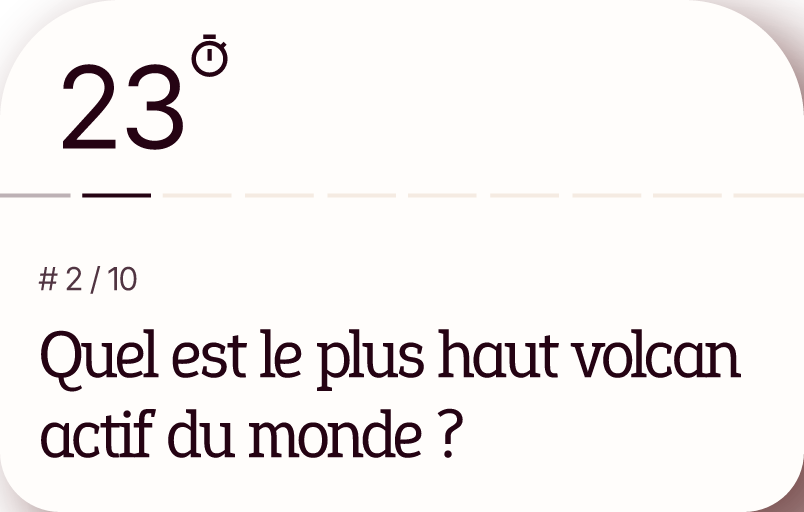
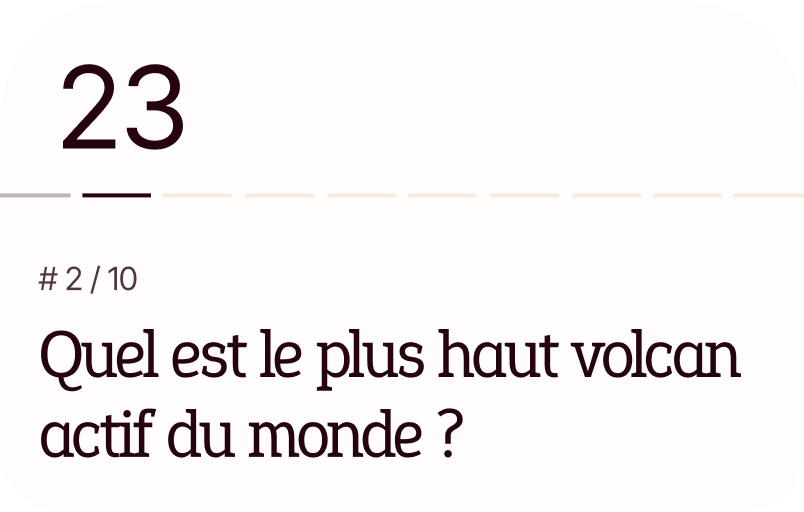
feat(mobile): onboarding page 2 shows the competition hero — the softened summit, the crown and the leader's row card — on the frame both heroes now share

diff --git a/apps/mobile/src/features/onboarding/components/practice-hero.tsx b/apps/mobile/src/features/onboarding/components/practice-hero.tsx
@@ -3,16 +3,16 @@ import { StyleSheet, View } from "react-native";
 import FastSquircleView from "react-native-fast-squircle";
 import { CategoryPill } from "@/components/category-pill";
 import type { IconName } from "@/components/ui/icon-name";
-import { PaywallHeroGradient } from "@/features/premium/components/paywall-hero-gradient";
-import { RADIUS } from "@/theme/tokens";
+import {
+  HERO_FACE,
+  HERO_OVERLAY_SHADOW,
+  OnboardingHeroFrame,
+} from "@/features/onboarding/components/onboarding-hero-frame";
 
 const QUESTION_CARD = require("../../../../assets/images/onboarding/question-card.png");
 const BALL = require("../../../../assets/images/onboarding/ball.png");
 const STATUE = require("../../../../assets/images/onboarding/statue.png");
 const MOUNTAINS = require("../../../../assets/images/onboarding/mountains.png");
-
-// The card keeps the mockup's proportions, so every piece sits at its measured fraction of it.
-const HERO_ASPECT_RATIO = 410 / 461;
 
 // Sample Categories for the walkthrough alone, so their colours are theirs and not roles.
 const SCATTERED_PILLS = [
@@ -68,13 +68,12 @@ const SCATTERED_PILLS = [
 
 export const PracticeHero = () => {
   return (
-    <View style={styles.hero} pointerEvents="none" accessible={false}>
-      <FastSquircleView style={[styles.face, styles.clip]}>
-        <PaywallHeroGradient />
-      </FastSquircleView>
-      {/* The card peeks over the top edge yet sits under the statue, so it lives outside the clip. */}
-      <Image source={QUESTION_CARD} contentFit="contain" style={styles.questionCard} />
-      <FastSquircleView style={[styles.face, styles.clip]}>
+    <OnboardingHeroFrame>
+      {/* The card peeks over the top edge yet sits under the statue, so it stays out of the clip. */}
+      <View style={HERO_OVERLAY_SHADOW}>
+        <Image source={QUESTION_CARD} contentFit="contain" style={styles.questionCard} />
+      </View>
+      <FastSquircleView style={HERO_FACE}>
         <Image source={BALL} contentFit="contain" style={styles.ball} />
         <Image source={STATUE} contentFit="contain" style={styles.statue} />
         <Image source={MOUNTAINS} contentFit="contain" style={styles.mountains} />
@@ -90,28 +89,11 @@ export const PracticeHero = () => {
           </View>
         ))}
       </FastSquircleView>
-    </View>
+    </OnboardingHeroFrame>
   );
 };
 
 const styles = StyleSheet.create({
-  hero: {
-    width: "100%",
-    aspectRatio: HERO_ASPECT_RATIO,
-  },
-  face: {
-    position: "absolute",
-    top: 0,
-    left: 0,
-    right: 0,
-    bottom: 0,
-    borderRadius: RADIUS.base,
-    borderTopLeftRadius: RADIUS.xl,
-    borderTopRightRadius: RADIUS.xl,
-  },
-  clip: {
-    overflow: "hidden",
-  },
   questionCard: {
     position: "absolute",
     left: "17.3%",

diff --git a/apps/mobile/src/features/onboarding/components/competition-hero.tsx b/apps/mobile/src/features/onboarding/components/competition-hero.tsx
@@ -1,0 +1,97 @@
+import { Image } from "expo-image";
+import { StyleSheet, Text, View } from "react-native";
+import { Squircle } from "@/components/ui/squircle";
+import {
+  HERO_OVERLAY_SHADOW,
+  OnboardingHeroFrame,
+} from "@/features/onboarding/components/onboarding-hero-frame";
+import {
+  ONBOARDING_LEADER_POINTS,
+  ONBOARDING_LEADER_PSEUDO,
+} from "@/features/onboarding/constants";
+import { POINTS_UNIT } from "@/features/quiz/constants";
+import { TEXT } from "@/theme/text";
+import { COLORS, RADIUS, SPACE } from "@/theme/tokens";
+
+const SUMMIT = require("../../../../assets/images/onboarding/summit.png");
+const CROWN = require("../../../../assets/images/onboarding/crown.png");
+const LEADER_AVATAR = require("../../../../assets/images/onboarding/leader-avatar.png");
+
+// The mockup softens the summit so the crown and the leader read first.
+const SUMMIT_BLUR_RADIUS = SPACE.md;
+
+export const CompetitionHero = () => {
+  return (
+    <OnboardingHeroFrame>
+      <Image
+        source={SUMMIT}
+        contentFit="contain"
+        blurRadius={SUMMIT_BLUR_RADIUS}
+        style={styles.summit}
+      />
+      <Image source={CROWN} contentFit="contain" style={styles.crown} />
+      <View style={[styles.leader, HERO_OVERLAY_SHADOW]}>
+        <Squircle
+          radius={RADIUS.sm}
+          corners="all"
+          color={COLORS.face}
+          borderColor={null}
+          borderWidth={null}
+          style={styles.leaderRow}
+        >
+          <Image source={LEADER_AVATAR} contentFit="contain" style={styles.avatar} />
+          <Text style={styles.pseudo} numberOfLines={1}>
+            {ONBOARDING_LEADER_PSEUDO}
+          </Text>
+          <Text style={styles.points}>{`${ONBOARDING_LEADER_POINTS} ${POINTS_UNIT}`}</Text>
+        </Squircle>
+      </View>
+    </OnboardingHeroFrame>
+  );
+};
+
+const styles = StyleSheet.create({
+  summit: {
+    position: "absolute",
+    left: "-6.1%",
+    top: "20.2%",
+    width: "112.4%",
+    aspectRatio: 1203 / 1029,
+  },
+  crown: {
+    position: "absolute",
+    left: "41.7%",
+    top: "9.1%",
+    width: "18.5%",
+    aspectRatio: 300 / 280,
+  },
+  leader: {
+    position: "absolute",
+    left: "14.4%",
+    top: "-2.6%",
+    width: "71.7%",
+  },
+  leaderRow: {
+    flexDirection: "row",
+    alignItems: "center",
+    gap: SPACE.sm,
+    paddingVertical: SPACE.sm,
+    paddingLeft: SPACE.sm,
+    paddingRight: SPACE.lg,
+  },
+  // The mockup mirrors the portrait so she faces her name.
+  avatar: {
+    height: SPACE.xxl,
+    aspectRatio: 145 / 160,
+    transform: [{ scaleX: -1 }],
+  },
+  pseudo: {
+    ...TEXT.screenTitle,
+    color: COLORS.ink,
+    flex: 1,
+  },
+  points: {
+    ...TEXT.captionStrong,
+    color: COLORS.ink,
+  },
+});

diff --git a/apps/mobile/src/features/onboarding/components/onboarding-hero-frame.tsx b/apps/mobile/src/features/onboarding/components/onboarding-hero-frame.tsx
@@ -1,0 +1,50 @@
+import type { PropsWithChildren } from "react";
+import { StyleSheet, View } from "react-native";
+import FastSquircleView from "react-native-fast-squircle";
+import { PaywallHeroGradient } from "@/features/premium/components/paywall-hero-gradient";
+import { COLORS, RADIUS } from "@/theme/tokens";
+
+// The card keeps the mockup's proportions, so every piece sits at its measured fraction of it.
+const HERO_ASPECT_RATIO = 410 / 461;
+
+const styles = StyleSheet.create({
+  hero: {
+    width: "100%",
+    aspectRatio: HERO_ASPECT_RATIO,
+  },
+  face: {
+    position: "absolute",
+    top: 0,
+    left: 0,
+    right: 0,
+    bottom: 0,
+    overflow: "hidden",
+    borderRadius: RADIUS.base,
+    borderTopLeftRadius: RADIUS.xl,
+    borderTopRightRadius: RADIUS.xl,
+  },
+  shadow: {
+    shadowColor: COLORS.ink,
+    shadowOffset: { width: 0, height: 6 },
+    shadowOpacity: 0.25,
+    shadowRadius: 3.84,
+  },
+});
+
+// A layer that must clip to the card's corners composes this over its own content.
+export const HERO_FACE = styles.face;
+
+// The white cards peeking over the hero's top edge all cast this one shadow.
+export const HERO_OVERLAY_SHADOW = styles.shadow;
+
+// Children stack over the gradient unclipped, so a card can peek over the top edge.
+export const OnboardingHeroFrame = ({ children }: PropsWithChildren) => {
+  return (
+    <View style={styles.hero} pointerEvents="none" accessible={false}>
+      <FastSquircleView style={styles.face}>
+        <PaywallHeroGradient />
+      </FastSquircleView>
+      {children}
+    </View>
+  );
+};

diff --git a/apps/mobile/src/features/onboarding/components/onboarding-screen.tsx b/apps/mobile/src/features/onboarding/components/onboarding-screen.tsx
@@ -4,12 +4,13 @@ import { type LayoutRectangle, StyleSheet, View } from "react-native";
 import { Carousel, type CarouselRef } from "react-native-reanimated-carousel";
 import { NewButton } from "@/components/ui/new-button";
 import { ScreenContainer } from "@/components/ui/screen-container";
+import { CompetitionHero } from "@/features/onboarding/components/competition-hero";
 import { OnboardingPage } from "@/features/onboarding/components/onboarding-page";
 import { OnboardingPager } from "@/features/onboarding/components/onboarding-pager";
 import { PracticeHero } from "@/features/onboarding/components/practice-hero";
 import {
-  ONBOARDING_PLACEHOLDER_CAPTION,
-  ONBOARDING_PLACEHOLDER_TITLE,
+  ONBOARDING_COMPETITION_CAPTION,
+  ONBOARDING_COMPETITION_TITLE,
   ONBOARDING_PRACTICE_CAPTION,
   ONBOARDING_PRACTICE_TITLE,
   ONBOARDING_SURPRISE_CAPTION,
@@ -35,10 +36,10 @@ export const OnboardingScreen = () => {
       action={null}
     />,
     <OnboardingPage
-      key="placeholder"
-      hero={null}
-      caption={ONBOARDING_PLACEHOLDER_CAPTION}
-      title={ONBOARDING_PLACEHOLDER_TITLE}
+      key="competition"
+      hero={<CompetitionHero />}
+      caption={ONBOARDING_COMPETITION_CAPTION}
+      title={ONBOARDING_COMPETITION_TITLE}
       action={null}
     />,
     <OnboardingPage

diff --git a/apps/mobile/src/features/onboarding/constants.ts b/apps/mobile/src/features/onboarding/constants.ts
@@ -1,7 +1,9 @@
 export const ONBOARDING_PRACTICE_CAPTION = "Practice illimité";
 export const ONBOARDING_PRACTICE_TITLE = "Entraîne toi sur de nombreux thèmes";
-export const ONBOARDING_PLACEHOLDER_CAPTION = "Deuxième page";
-export const ONBOARDING_PLACEHOLDER_TITLE = "Contenu à venir";
+export const ONBOARDING_COMPETITION_CAPTION = "Envie de compétition ?";
+export const ONBOARDING_COMPETITION_TITLE = "Hisse toi en haut du classement";
+export const ONBOARDING_LEADER_PSEUDO = "Emma8M6B";
+export const ONBOARDING_LEADER_POINTS = 4500;
 export const ONBOARDING_SURPRISE_CAPTION = "Passons au fonctionnement d'un quizz";
 export const ONBOARDING_SURPRISE_TITLE = "Petit test surprise";
 export const ONBOARDING_SURPRISE_CTA_LABEL = "C'est parti";
